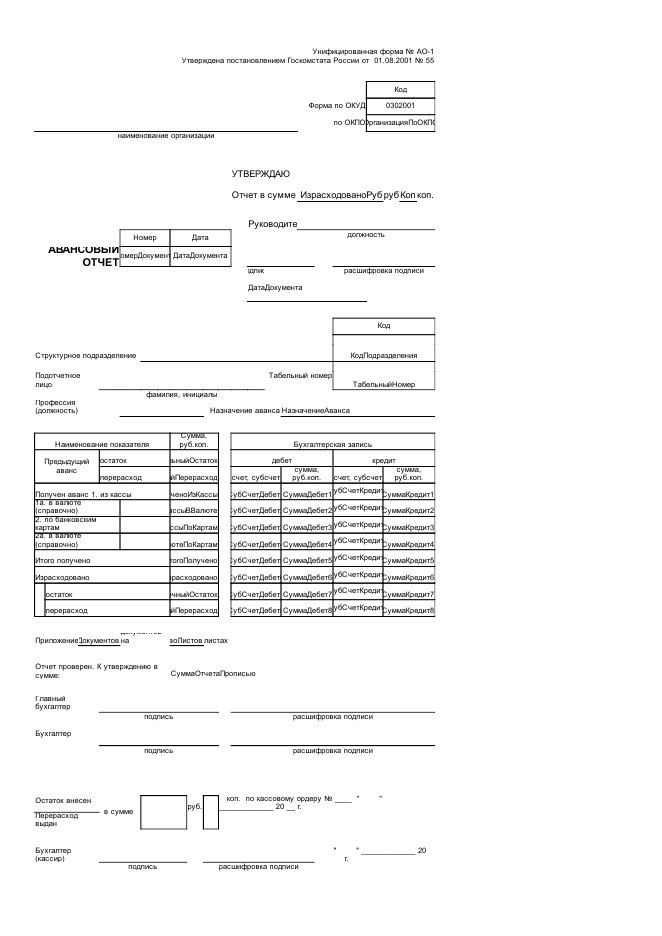
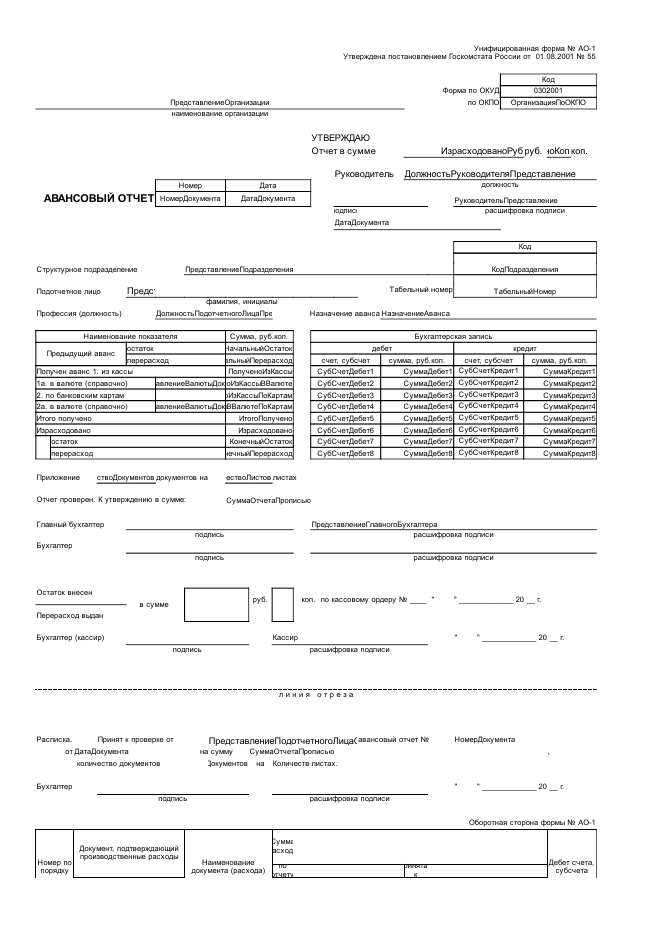
feat(mxl): bring rendering closer to 1C editor
- parser: handle cell marker bit 8 (extra string field before localized
  text) — restores parameter captions like 'РуководительПредставление'
- renderer: column widths use the standard symbol (Arial 10) instead of the
  template's first font; auto row height uses font metrics and considers
  wrapped text; 'auto' text overflows into empty neighbours like in 1C
- gui: optional cell grid (like Configurator), shown by default in preview
  and not printed to PDF
- docs: screenshots refreshed, research notes on renderer fidelity

diff --git a/src/gui/MxlRenderer.cpp b/src/gui/MxlRenderer.cpp
@@ -184,7 +184,11 @@ void MxlRenderer::rebuildLayout()
     m_rowTop.clear();
     m_rowHeight.clear();
 
-    QFontMetricsF metrics(baseFont());
+    // Ширина колонки в 1С — в 1/8 ширины «стандартного символа»
+    // (Arial 10), а не шрифта конкретного макета.
+    QFont standardFont(QStringLiteral("Arial"));
+    standardFont.setPixelSize(pixelSizeForTenthPt(100));
+    QFontMetricsF metrics(standardFont);
     double characterWidth = metrics.horizontalAdvance(QLatin1Char('0'));
     if (characterWidth <= 0.0)
         characterWidth = metrics.averageCharWidth();
@@ -207,17 +211,38 @@ void MxlRenderer::rebuildLayout()
         const double units = rowUnitsFor(m_document, row.index);
         double height = units > 0.0 ? units / kInchUnits * kDpi : 0.0;
         if (height <= 0.0) {
-            double maxFontPx = fontPixelSize(baseFont());
+            double maxHeight = QFontMetricsF(baseFont()).height();
             const mxl::CellFormat *rowFormat = m_document.formatAt(row.format);
-            if (rowFormat)
-                maxFontPx = std::max(maxFontPx, fontPixelSize(fontForFormat(rowFormat)));
+            if (rowFormat) {
+                maxHeight = std::max(
+                    maxHeight, QFontMetricsF(fontForFormat(rowFormat)).height());
+            }
             for (const auto &cell : row.cells) {
                 const mxl::CellFormat *format = m_document.formatAt(cell.second.format);
                 if (!format)
                     continue;
-                maxFontPx = std::max(maxFontPx, fontPixelSize(fontForFormat(format)));
+                const QFont font = fontForFormat(format);
+                QFontMetricsF metrics(font);
+                maxHeight = std::max(maxHeight, metrics.height());
+
+                // Автовысота учитывает перенос текста (как в 1С).
+                if (format->textControl != 3 || cell.second.text.isEmpty())
+                    continue;
+                const mxl::Merge *merge = m_document.mergeAt(row.index, cell.first);
+                double width = 0.0;
+                if (merge) {
+                    width = columnLeft(merge->right + 1) - columnLeft(merge->left) - 4.0;
+                } else {
+                    width = columnLeft(cell.first + 1) - columnLeft(cell.first) - 4.0;
+                }
+                if (width <= 1.0)
+                    continue;
+                const QRectF bounds = metrics.boundingRect(
+                    QRectF(0.0, 0.0, width, 100000.0),
+                    Qt::TextWordWrap, cell.second.text);
+                maxHeight = std::max(maxHeight, bounds.height() + 2.0);
             }
-            height = std::max(20.0, std::ceil(maxFontPx * 1.2 + 8.0));
+            height = std::max(14.0, std::ceil(maxHeight + 1.0));
         }
         m_rowHeight.insert(row.index, height);
         y += height;
@@ -312,6 +337,22 @@ void MxlRenderer::drawCell(QPainter &painter, int rowIndex, int column,
             flags |= Qt::AlignTop;
         }
 
+        QRectF textRect = rect.adjusted(1, 1, -1, -1);
+        const int textControl = format ? format->textControl : -1;
+        if (textControl <= 0) {
+            // «Авто»: текст выходит за границу ячейки, пока справа пустые
+            // ячейки (как в 1С). Прекращаем на первой непустой.
+            double rightLimit = textRect.right();
+            for (int c = right + 1; c <= m_maxColumn; ++c) {
+                const mxl::Cell *neighbor = m_document.cellAt(rowIndex, c);
+                if (neighbor && !neighbor->text.isEmpty())
+                    break;
+                rightLimit = columnLeft(c + 1);
+            }
+            if (rightLimit > textRect.right())
+                textRect.setRight(rightLimit - 1.0);
+        }
+
         const bool rotated = format && format->orientation > 0
             && (format->orientation % 450 == 0 || format->orientation == 900);
         if (rotated) {
@@ -324,8 +365,7 @@ void MxlRenderer::drawCell(QPainter &painter, int rowIndex, int column,
                              static_cast<int>(flags), text);
             painter.restore();
         } else {
-            painter.drawText(rect.adjusted(1, 1, -1, -1),
-                             static_cast<int>(flags), text);
+            painter.drawText(textRect, static_cast<int>(flags), text);
         }
     }
 
@@ -362,6 +402,42 @@ void MxlRenderer::drawCell(QPainter &painter, int rowIndex, int column,
     drawSide(format->borderTop, QLineF(rect.left(), rect.top(), rect.right(), rect.top()));
     drawSide(format->borderRight, QLineF(rect.right(), rect.top(), rect.right(), rect.bottom()));
     drawSide(format->borderBottom, QLineF(rect.left(), rect.bottom(), rect.right(), rect.bottom()));
+}
+
+void MxlRenderer::drawGrid(QPainter &painter, const QRectF &visible) const
+{
+    if (!m_document.valid)
+        return;
+
+    painter.save();
+    QPen pen(QColor(200, 200, 200));
+    pen.setWidthF(0.6);
+    painter.setPen(pen);
+
+    const double top = kMargin;
+    const double bottom = m_contentHeight - kMargin;
+    for (int column = 0; column <= m_maxColumn; ++column) {
+        const double x = columnLeft(column);
+        if (x < visible.left() - 1.0 || x > visible.right() + 1.0)
+            continue;
+        painter.drawLine(QPointF(x, top), QPointF(x, bottom));
+    }
+
+    const double left = kMargin;
+    const double right = m_contentWidth - kMargin;
+    for (const mxl::Row &row : m_document.rows) {
+        const double y = rowTop(row.index);
+        if (y < visible.top() - 1.0 || y > visible.bottom() + 1.0)
+            continue;
+        painter.drawLine(QPointF(left, y), QPointF(right, y));
+    }
+    if (!m_document.rows.isEmpty()) {
+        const mxl::Row &last = m_document.rows.last();
+        const double y = rowTop(last.index) + rowHeight(last.index);
+        if (y >= visible.top() - 1.0 && y <= visible.bottom() + 1.0)
+            painter.drawLine(QPointF(left, y), QPointF(right, y));
+    }
+    painter.restore();
 }
 
 void MxlRenderer::draw(QPainter &painter, const QRectF &visible, bool showNamedAreas,

diff --git a/src/gui/MainWindow.cpp b/src/gui/MainWindow.cpp
@@ -656,6 +656,11 @@ void MainWindow::setupTabs()
     areasCheck->setObjectName(QStringLiteral("showNamedAreas"));
     areasCheck->setToolTip(QStringLiteral("Показывать границы именованных областей макета"));
     mxlHeader->addWidget(areasCheck);
+
+    auto *gridCheck = new QCheckBox(QStringLiteral("Сетка"), m_mxlPage);
+    gridCheck->setChecked(true);
+    gridCheck->setToolTip(QStringLiteral("Показывать сетку ячеек (как в конфигураторе)"));
+    mxlHeader->addWidget(gridCheck);
     mxlHeader->addStretch();
     mxlLayout->addLayout(mxlHeader);
 
@@ -665,6 +670,10 @@ void MainWindow::setupTabs()
     connect(areasCheck, &QCheckBox::toggled, this, [this](bool checked) {
         if (m_mxlView)
             m_mxlView->setShowNamedAreas(checked);
+    });
+    connect(gridCheck, &QCheckBox::toggled, this, [this](bool checked) {
+        if (m_mxlView)
+            m_mxlView->setShowGrid(checked);
     });
     m_tabs->addTab(m_mxlPage, QStringLiteral("Табличный документ"));
 }

diff --git a/src/gui/MxlView.cpp b/src/gui/MxlView.cpp
@@ -65,6 +65,14 @@ void MxlView::setShowNamedAreas(bool show)
     viewport()->update();
 }
 
+void MxlView::setShowGrid(bool show)
+{
+    if (m_showGrid == show)
+        return;
+    m_showGrid = show;
+    viewport()->update();
+}
+
 void MxlView::setActiveNamedArea(const QString &name)
 {
     if (m_activeArea == name)
@@ -166,6 +174,8 @@ void MxlView::paintEvent(QPaintEvent *event)
     painter.scale(zoom, zoom);
     painter.translate(-offset);
     painter.setClipRect(visible);
+    if (m_showGrid)
+        m_renderer.drawGrid(painter, visible);
     m_renderer.draw(painter, visible, m_showAreas, m_activeArea);
     painter.restore();
 }

diff --git a/src/gui/MxlView.h b/src/gui/MxlView.h
@@ -32,6 +32,9 @@ public:
 
     bool showNamedAreas() const { return m_showAreas; }
     void setShowNamedAreas(bool show);
+
+    bool showGrid() const { return m_showGrid; }
+    void setShowGrid(bool show);
     void setActiveNamedArea(const QString &name);
 
     double zoom() const { return m_zoom; }
@@ -54,6 +57,7 @@ private:
     bool m_hasDocument = false;
     QString m_message;
     bool m_showAreas = false;
+    bool m_showGrid = true;
     QString m_activeArea;
     double m_zoom = 1.0;
 };

diff --git a/src/gui/MxlRenderer.h b/src/gui/MxlRenderer.h
@@ -45,6 +45,9 @@ public:
               bool showNamedAreas = false,
               const QString &activeArea = QString()) const;
 
+    // Светлая сетка ячеек (как в редакторе 1С); в печать не выводится.
+    void drawGrid(QPainter &painter, const QRectF &visible) const;
+
     // Прямоугольник именованной области в координатах документа.
     QRectF namedAreaRect(const mxl::NamedArea &area) const;
 

diff --git a/src/core/MxlReader.cpp b/src/core/MxlReader.cpp
@@ -95,6 +95,8 @@ mxl::Cell cellFromValue(const V8TextNode &fields)
     }
     if ((marker & 4) != 0)
         ++next; // ссылка-расшифровка; сам текст обычно уже есть в кэше
+    if ((marker & 8) != 0)
+        ++next; // дополнительное строковое поле (например, имя типа) перед текстом
     if ((marker & 16) != 0) {
         const V8TextNode *localized = childAt(fields, next);
         int hasText = 0;

diff --git a/docs/research/mxl-format.md b/docs/research/mxl-format.md
@@ -199,3 +199,19 @@
 Дальше (фаза 2): точные узоры заливки, картинки и графические объекты,
 поворот текста во всех случаях, колонтитулы и принудительные разрывы страниц,
 экспорт в XLSX/HTML, поддержка MXL 7.7 (бинарный формат).
+
+## 10. Уточнения рендеринга, приближающие к 1С
+
+- **Маркер ячейки, бит 8**: перед локализованным текстом идёт дополнительное
+  строковое поле (например, имя типа «Руководитель»); без его пропуска
+  терялись подписи вида `РуководительПредставление`.
+- **Ширина колонки** — в 1/8 ширины «стандартного символа» (Arial 10), а не
+  шрифта конкретного макета: иначе таблица получается уже, чем в 1С.
+- **Автовысота строки** считается по метрикам шрифта (`QFontMetrics::height`)
+  и с учётом переноса текста (TextWordWrap), иначе строки с двухстрочными
+  ячейками наезжают друг на друга.
+- **Режим «Авто» контроля текста**: текст выходит в пустые соседние ячейки
+  справа (как в 1С), пока не встретит непустую; при «переносе» — переносится
+  по ширине объединённой области.
+- **Сетка ячеек** в просмотрщике (как в конфигураторе) — переключатель
+  «Сетка»; в PDF/печать сетка не выводится.

diff --git a/README.md b/README.md
@@ -31,7 +31,8 @@
 - Просмотр табличных документов (MXL): макеты конфигурации разбираются
   собственным парсером (строки, форматы, шрифты, цвета, рамки, объединения,
   группы колонок, именованные области и параметры печати) и отображаются
-  в приложении с масштабированием. Именованные области можно подсветить,
+  в приложении с масштабированием; есть сетка ячеек, как в конфигураторе.
+  Именованные области можно подсветить,
   макет печатается и экспортируется в PDF с учётом размера страницы,
   ориентации, масштаба, полей и разбиением на страницы; CLI-команда `mxl`
   показывает сводку по макетам объекта.
@@ -66,7 +67,7 @@
 ![Табличный документ MXL](docs/screenshot-mxl.png)
 
 Табличный документ макета: сетка, форматы, объединения и рамки — собственный
-парсер и рендер на Qt (без платформы 1С).
+парсер и рендер на Qt (без платформы 1С), приближенный к виду конфигуратора.
 
 ![Именованные области макета](docs/screenshot-mxl-areas.png)
 
